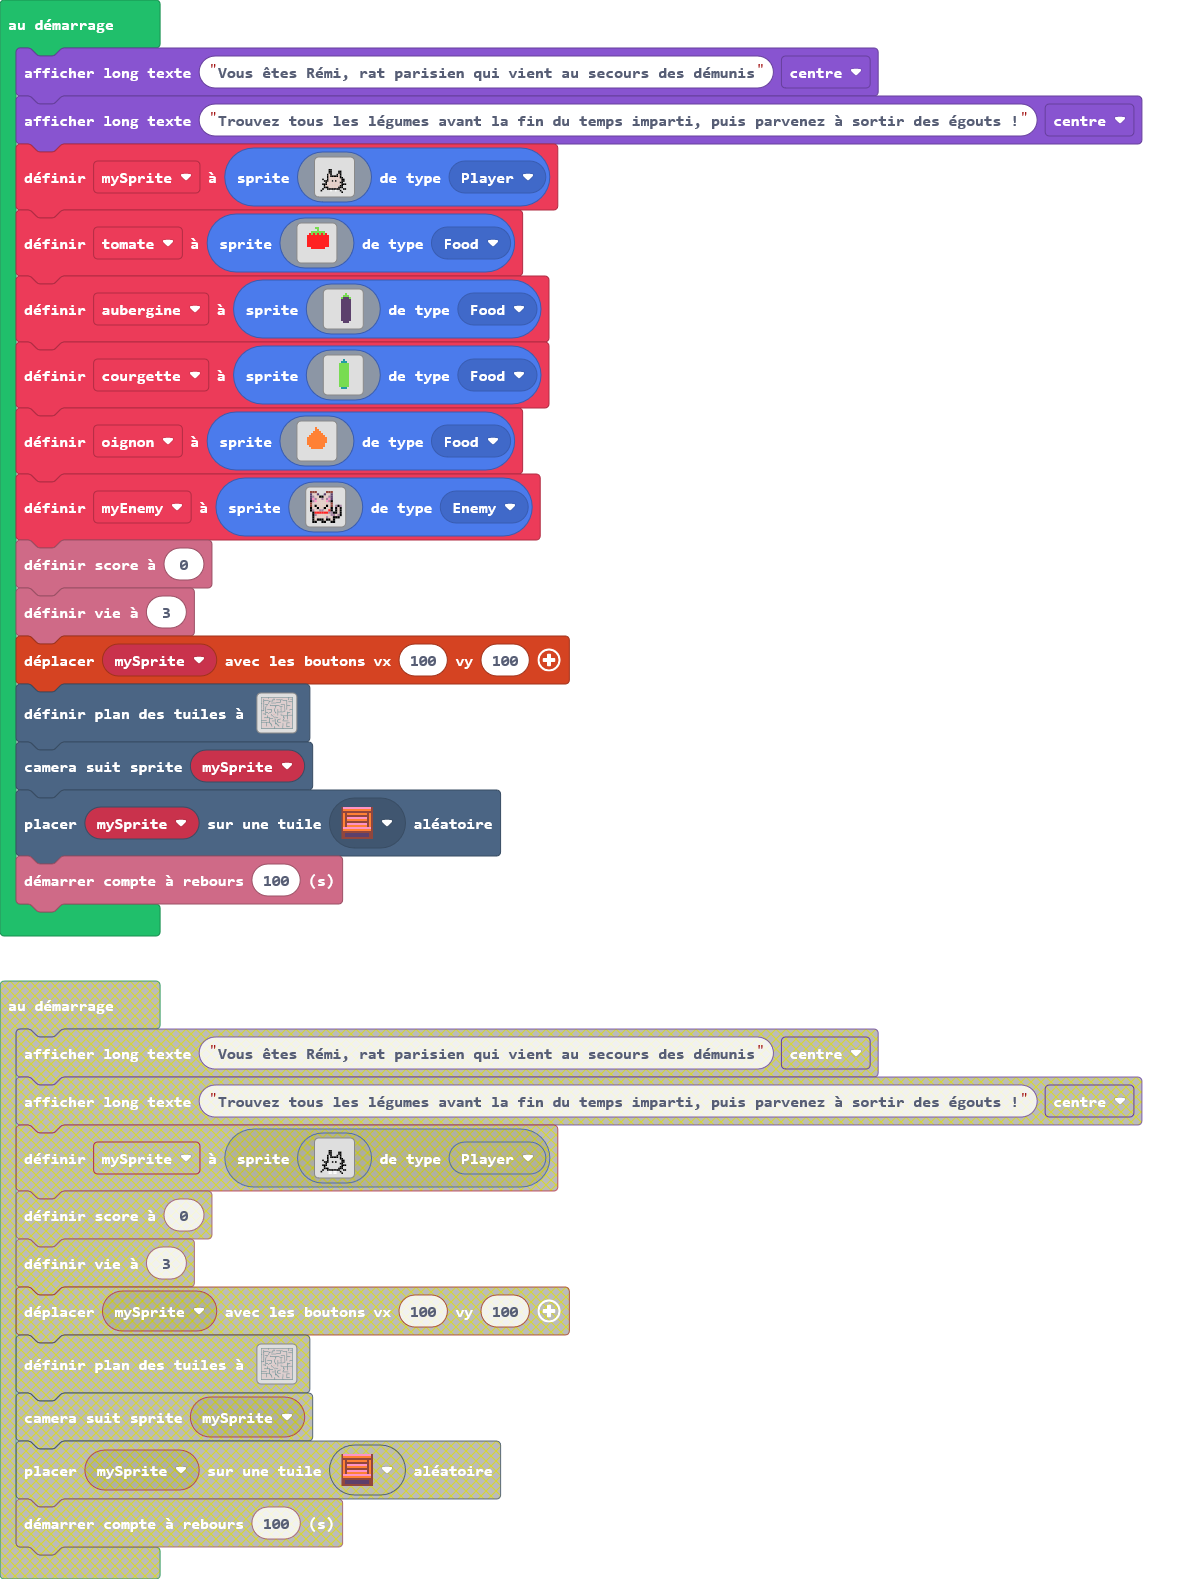
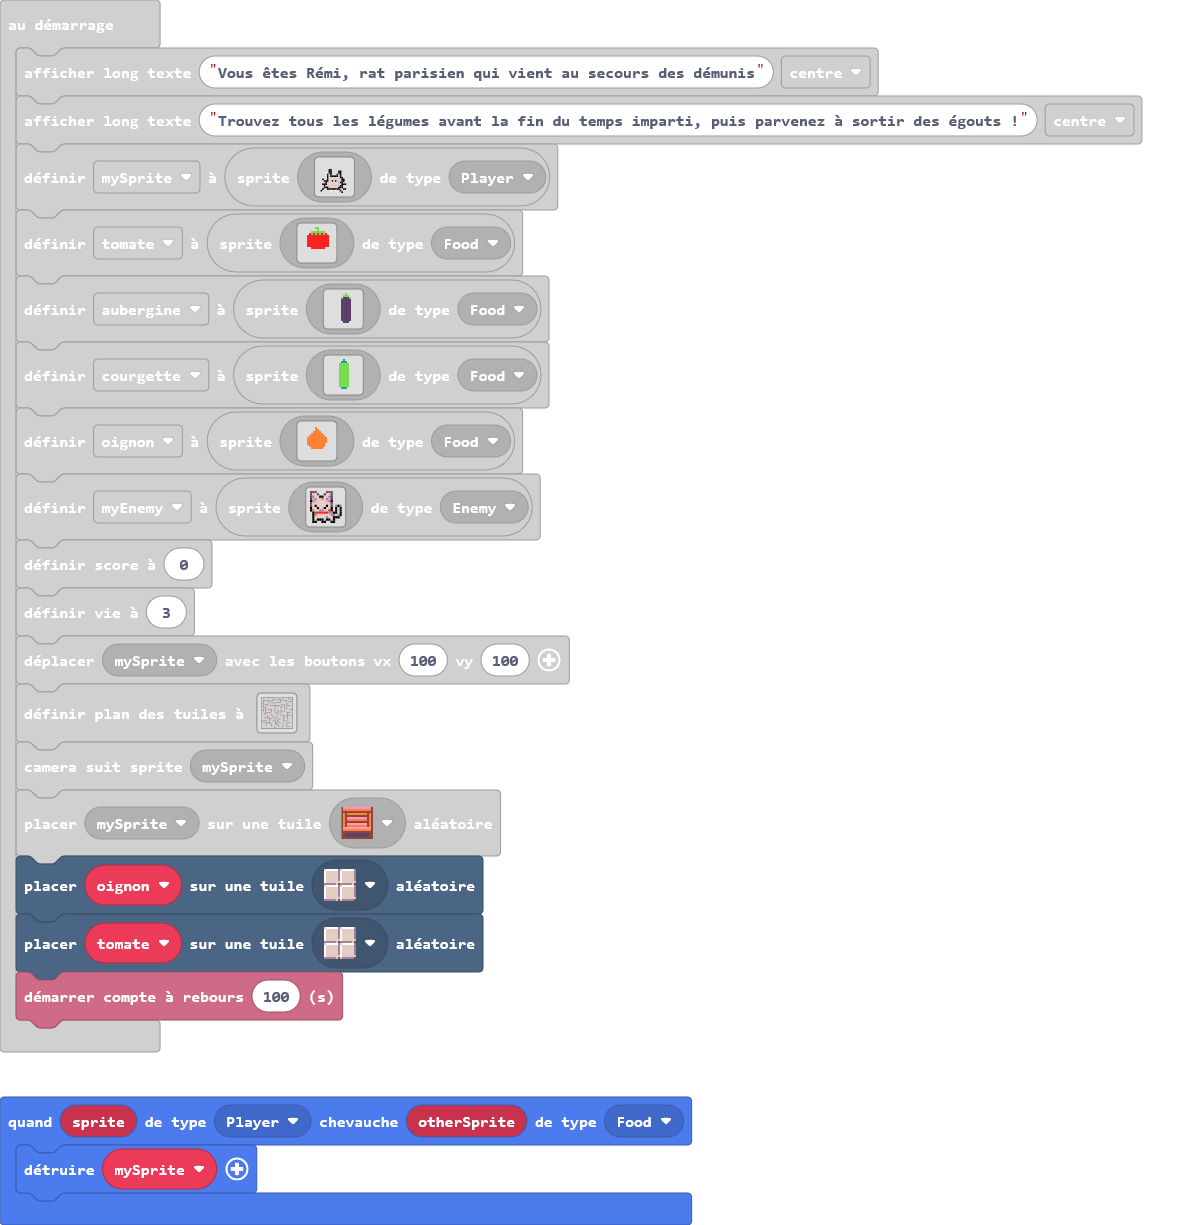
Mise à jour main.blocks, main.ts, tilemap.g.jres, tilemap.g.ts

diff --git a/tilemap.g.ts b/tilemap.g.ts
@@ -77,6 +77,25 @@ namespace myTiles {
 2....................2............2..............2
 22222222222222222222222222222222222222222222222222
 `, [myTiles.transparency16,sprites.dungeon.floorLight0,sprites.dungeon.greenOuterWest1,sprites.dungeon.greenOuterSouth0,sprites.dungeon.greenOuterNorth0,sprites.dungeon.greenOuterNorth1,sprites.dungeon.floorLight2,sprites.dungeon.stairWest,sprites.dungeon.stairLadder], TileScale.Sixteen);
+            case "niveau3":
+            case "niveau3":return tiles.createTilemap(hex`1000100000000000000000000000000000000000000000000000000000000000000000000000000000000000000000000000000000000000000000000000000000000000000000000000000000000000000000000000000000000000000000000000000000000000000000000000000000000000000000000000000000000000000000000000000000000000000000000000000000000000000000000000000000000000000000000000000000000000000000000000000000000000000000000000000000000000000000000000000000000000000000000000000000000000000000000000000000000000000000000000000000000000000000000000000000000000`, img`
+. . . . . . . . . . . . . . . . 
+. . . . . . . . . . . . . . . . 
+. . . . . . . . . . . . . . . . 
+. . . . . . . . . . . . . . . . 
+. . . . . . . . . . . . . . . . 
+. . . . . . . . . . . . . . . . 
+. . . . . . . . . . . . . . . . 
+. . . . . . . . . . . . . . . . 
+. . . . . . . . . . . . . . . . 
+. . . . . . . . . . . . . . . . 
+. . . . . . . . . . . . . . . . 
+. . . . . . . . . . . . . . . . 
+. . . . . . . . . . . . . . . . 
+. . . . . . . . . . . . . . . . 
+. . . . . . . . . . . . . . . . 
+. . . . . . . . . . . . . . . . 
+`, [myTiles.transparency16], TileScale.Sixteen);
         }
         return null;
     })

diff --git a/main.ts b/main.ts
@@ -1,9 +1,13 @@
 scene.onOverlapTile(SpriteKind.Player, sprites.dungeon.stairWest, function (sprite, location) {
     game.over(true)
 })
+sprites.onOverlap(SpriteKind.Player, SpriteKind.Food, function (sprite, otherSprite) {
+    mySprite.destroy()
+})
+let mySprite: Sprite = null
 game.showLongText("Vous êtes Rémi, rat parisien qui vient au secours des démunis", DialogLayout.Center)
 game.showLongText("Trouvez tous les légumes avant la fin du temps imparti, puis parvenez à sortir des égouts !", DialogLayout.Center)
-let mySprite = sprites.create(img`
+mySprite = sprites.create(img`
     ....................
     ....................
     ....................
@@ -119,4 +123,6 @@ controller.moveSprite(mySprite, 100, 100)
 tiles.setTilemap(tilemap`niveau2`)
 scene.cameraFollowSprite(mySprite)
 tiles.placeOnRandomTile(mySprite, sprites.dungeon.stairLadder)
+tiles.placeOnRandomTile(oignon, sprites.dungeon.floorLight0)
+tiles.placeOnRandomTile(tomate, sprites.dungeon.floorLight0)
 info.startCountdown(100)
